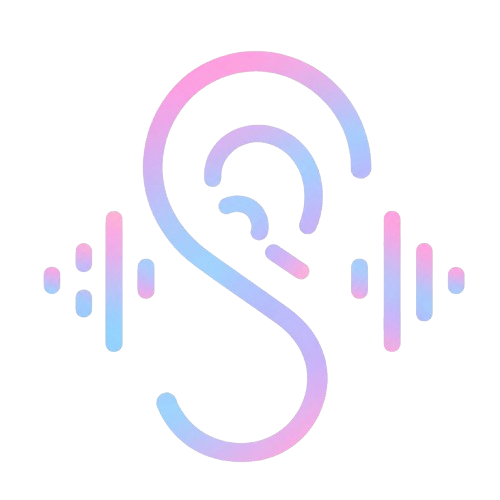
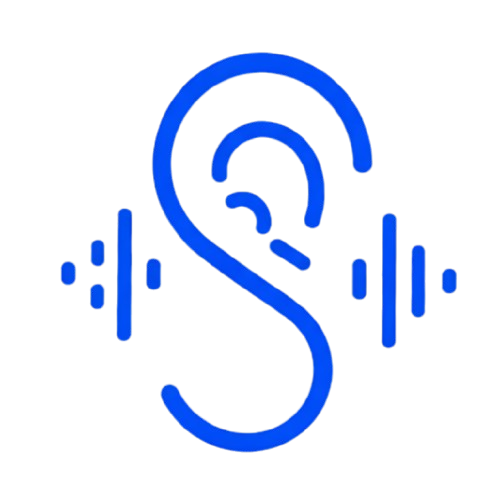
Fix typescript error & Add Mock Payment Gateway Simulator

Changed region(s): [[0.27, 0.09, 0.75, 0.93], [0.69, 0.42, 0.93, 0.72], [0.09, 0.42, 0.33, 0.72]]

diff --git a/apps/web/components/premium/PremiumUpgradeFlow.tsx b/apps/web/components/premium/PremiumUpgradeFlow.tsx
@@ -1,14 +1,38 @@
 "use client"
 
-import { Check, Zap, ShieldCheck, ArrowRight, Sparkles } from "lucide-react"
+import { useState } from "react"
+import { Check, Zap, ShieldCheck, ArrowRight, Sparkles, X, CreditCard, Loader2 } from "lucide-react"
 import { useUiStore } from "@/store/uiStore"
+import { upgradeUserToPremium } from "@/app/actions/user"
+import { useRouter } from "next/navigation"
 
 export default function PremiumUpgradeFlow() {
   const { triggerFlash } = useUiStore()
+  const router = useRouter()
+  
+  const [showModal, setShowModal] = useState(false)
+  const [selectedPlan, setSelectedPlan] = useState("")
+  const [price, setPrice] = useState("")
+  const [isProcessing, setIsProcessing] = useState(false)
 
-  const handleSubscribe = (plan: string) => {
-    triggerFlash("success", `Memproses pembayaran untuk paket ${plan}...`)
-    // Di aplikasi nyata, ini akan redirect ke Stripe Checkout atau Midtrans
+  const handleSubscribe = (plan: string, planPrice: string) => {
+    setSelectedPlan(plan)
+    setPrice(planPrice)
+    setShowModal(true)
+  }
+
+  const handlePayment = async () => {
+    setIsProcessing(true)
+    try {
+      await upgradeUserToPremium()
+      triggerFlash("success", `Pembayaran berhasil! Akun Anda kini Premium.`)
+      setShowModal(false)
+      // Reload the page to reflect the new session role
+      window.location.href = "/dashboard"
+    } catch (error) {
+      triggerFlash("error", "Terjadi kesalahan saat memproses pembayaran.")
+      setIsProcessing(false)
+    }
   }
 
   return (
@@ -23,7 +47,7 @@ export default function PremiumUpgradeFlow() {
         </p>
       </div>
 
-      {/* Pricing Cards - 3 Column Grid from Landing Page */}
+      {/* Pricing Cards */}
       <div className="max-w-[1200px] mx-auto w-full grid grid-cols-1 lg:grid-cols-3 gap-8 items-stretch">
         
         {/* Free Plan */}
@@ -76,7 +100,7 @@ export default function PremiumUpgradeFlow() {
           </div>
           
           <button 
-            onClick={() => handleSubscribe('Bulanan')}
+            onClick={() => handleSubscribe('Premium Bulanan', 'Rp 49.000')}
             className="block text-center w-full py-4 rounded-[1.25rem] text-[15px] font-bold bg-[#2563EB] hover:bg-blue-700 text-white transition-all shadow-[0_0_20px_rgba(37,99,235,0.3)] hover:-translate-y-0.5 mt-auto relative z-10"
           >
             Berlangganan Bulanan
@@ -108,14 +132,90 @@ export default function PremiumUpgradeFlow() {
           </div>
           
           <button 
-            onClick={() => handleSubscribe('Tahunan')}
+            onClick={() => handleSubscribe('Premium Tahunan', 'Rp 399.000')}
             className="block text-center w-full py-4 rounded-[1.25rem] text-[15px] font-bold bg-[#BC4800] hover:bg-[#9c3c00] text-white transition-all shadow-[0_4px_14px_rgba(188,72,0,0.3)] hover:-translate-y-0.5 mt-auto relative z-10"
           >
             Berlangganan Tahunan
           </button>
         </div>
-
       </div>
+
+      {/* Mock Payment Gateway Modal */}
+      {showModal && (
+        <div className="fixed inset-0 z-50 flex items-center justify-center bg-black/60 backdrop-blur-sm p-4 animate-in fade-in duration-200">
+          <div className="bg-white dark:bg-slate-900 w-full max-w-md rounded-3xl shadow-2xl overflow-hidden border border-slate-200 dark:border-slate-800 animate-in zoom-in-95 duration-200">
+            {/* Modal Header */}
+            <div className="bg-slate-50 dark:bg-slate-800/50 p-6 border-b border-slate-100 dark:border-slate-800 flex justify-between items-center">
+              <div className="flex items-center gap-3">
+                <div className="w-10 h-10 bg-indigo-100 dark:bg-indigo-900/50 rounded-full flex items-center justify-center">
+                  <CreditCard className="w-5 h-5 text-indigo-600 dark:text-indigo-400" />
+                </div>
+                <div>
+                  <h3 className="font-bold text-slate-900 dark:text-white">Pembayaran Aman</h3>
+                  <p className="text-xs text-slate-500 dark:text-slate-400">Simulator Payment Gateway</p>
+                </div>
+              </div>
+              <button 
+                onClick={() => setShowModal(false)}
+                className="w-8 h-8 flex items-center justify-center rounded-full hover:bg-slate-200 dark:hover:bg-slate-700 text-slate-400 transition-colors"
+                disabled={isProcessing}
+              >
+                <X className="w-5 h-5" />
+              </button>
+            </div>
+
+            {/* Modal Body */}
+            <div className="p-6">
+              <div className="bg-indigo-50/50 dark:bg-indigo-900/10 border border-indigo-100 dark:border-indigo-900/30 rounded-2xl p-5 mb-6">
+                <div className="flex justify-between items-center mb-2">
+                  <span className="text-sm font-semibold text-slate-600 dark:text-slate-400">Paket</span>
+                  <span className="font-bold text-slate-900 dark:text-white">{selectedPlan}</span>
+                </div>
+                <div className="flex justify-between items-center">
+                  <span className="text-sm font-semibold text-slate-600 dark:text-slate-400">Total Pembayaran</span>
+                  <span className="text-xl font-extrabold text-indigo-600 dark:text-indigo-400">{price}</span>
+                </div>
+              </div>
+
+              <div className="space-y-3 mb-8">
+                <p className="text-sm text-slate-500 dark:text-slate-400 text-center">
+                  Pilih metode pembayaran (Demo Mode):
+                </p>
+                <div className="grid grid-cols-2 gap-3">
+                  <button className="border-2 border-indigo-600 bg-indigo-50 dark:bg-indigo-900/20 rounded-xl p-3 text-sm font-bold text-indigo-700 dark:text-indigo-400 flex flex-col items-center gap-2">
+                    <img src="https://upload.wikimedia.org/wikipedia/commons/thumb/8/86/Gopay_logo.svg/1200px-Gopay_logo.svg.png" alt="Gopay" className="h-4 object-contain brightness-0 dark:invert opacity-70" />
+                    GoPay
+                  </button>
+                  <button className="border-2 border-slate-200 dark:border-slate-700 hover:border-slate-300 rounded-xl p-3 text-sm font-bold text-slate-600 dark:text-slate-400 flex flex-col items-center gap-2">
+                    <img src="https://upload.wikimedia.org/wikipedia/commons/thumb/e/e1/OVO_logo.svg/1200px-OVO_logo.svg.png" alt="OVO" className="h-4 object-contain brightness-0 dark:invert opacity-70" />
+                    OVO
+                  </button>
+                </div>
+              </div>
+
+              <button 
+                onClick={handlePayment}
+                disabled={isProcessing}
+                className="w-full bg-slate-900 hover:bg-slate-800 dark:bg-white dark:hover:bg-slate-100 text-white dark:text-slate-900 font-bold py-4 rounded-xl shadow-lg transition-all flex items-center justify-center gap-2 disabled:opacity-70"
+              >
+                {isProcessing ? (
+                  <>
+                    <Loader2 className="w-5 h-5 animate-spin" />
+                    Memproses...
+                  </>
+                ) : (
+                  <>Bayar Sekarang</>
+                )}
+              </button>
+              
+              <p className="text-xs text-center text-slate-400 mt-4">
+                Ini adalah lingkungan simulasi/demo. Tidak ada uang sungguhan yang akan ditarik.
+              </p>
+            </div>
+          </div>
+        </div>
+      )}
     </div>
   )
 }
+

diff --git a/apps/web/components/dashboard/RecentHistory.tsx b/apps/web/components/dashboard/RecentHistory.tsx
@@ -4,6 +4,7 @@ import { useState, useEffect } from "react"
 import Link from "next/link"
 import { History as HistoryIcon } from "lucide-react"
 import { useTranslation } from "@/lib/i18n"
+import { getHistory } from "@/app/actions/history"
 
 export function RecentHistory() {
   const { t } = useTranslation()
@@ -11,50 +12,19 @@ export function RecentHistory() {
   const [isLoading, setIsLoading] = useState(true)
 
   useEffect(() => {
-    try {
-      const translations = JSON.parse(localStorage.getItem("swara_translations") || "[]")
-      const dictations = JSON.parse(localStorage.getItem("swara_dictations") || "[]")
-      const conversations = JSON.parse(localStorage.getItem("swara_conversations") || "[]")
-
-      const formattedTranslations = translations.map((t: any) => ({
-        id: t.id,
-        type: "translation",
-        originalText: t.original,
-        sourceLanguageCode: `${t.sourceLang} → ${t.targetLang}`,
-        createdAt: t.date,
-      }))
-
-      const formattedDictations = dictations.map((d: any) => ({
-        id: d.id,
-        type: "stt",
-        originalText: d.text,
-        sourceLanguageCode: "Dikte",
-        createdAt: d.date,
-      }))
-
-      const formattedConversations = conversations.map((c: any) => {
-        const textPreview = c.log && c.log.length > 0 
-          ? c.log.map((l: any) => `${l.speaker}: ${l.text}`).join(' | ') 
-          : "Sesi Percakapan Kosong"
-        return {
-          id: c.id,
-          type: "stt",
-          originalText: textPreview,
-          sourceLanguageCode: "2 Arah",
-          createdAt: c.date,
-        }
-      })
-
-      const combined = [...formattedTranslations, ...formattedDictations, ...formattedConversations]
-        .sort((a, b) => new Date(b.createdAt).getTime() - new Date(a.createdAt).getTime())
-        .slice(0, 5)
-      
-      setData(combined)
-    } catch (e) {
-      console.error("Error loading history", e)
-    } finally {
-      setIsLoading(false)
+    async function loadHistory() {
+      try {
+        const historyData = await getHistory()
+        // Ambil 5 riwayat terbaru saja untuk beranda
+        setData(historyData.slice(0, 5))
+      } catch (e) {
+        console.error("Error loading history", e)
+      } finally {
+        setIsLoading(false)
+      }
     }
+    
+    loadHistory()
   }, [])
 
   return (
@@ -101,19 +71,19 @@ export function RecentHistory() {
               key={item.id}
               className="flex items-center gap-4 p-3 rounded-xl hover:bg-[#F8FAFC] dark:hover:bg-slate-700/50 transition-colors border border-transparent hover:border-[#E2E8F0] dark:hover:border-slate-600"
             >
-              <div className={`px-2 py-1 rounded text-xs font-bold ${
+              <div className={`px-2 py-1 rounded text-xs font-bold uppercase ${
                 item.type === 'stt' ? 'bg-[#DBEAFE] dark:bg-blue-900/30 text-[#1D4ED8] dark:text-blue-400' : 
                 item.type === 'tts' ? 'bg-[#E2E8F0] dark:bg-slate-700 text-[#0F172A] dark:text-slate-300' : 
                 'bg-[#FFEDD5] dark:bg-orange-900/30 text-[#9A3A00] dark:text-orange-400'
               }`}>
-                {item.type.toUpperCase()}
+                {item.type}
               </div>
               <div className="flex-1 min-w-0">
                 <p className="text-[#0F172A] dark:text-white font-medium truncate">
-                  {item.originalText}
+                  {item.label || item.originalText}
                 </p>
                 <div className="flex items-center gap-2 text-xs text-[#94A3B8] dark:text-slate-400 mt-1">
-                  <span>{item.sourceLanguageCode}</span>
+                  <span>{item.sourceLanguageCode || "Sistem"}</span>
                   <span>•</span>
                   <span>{new Date(item.createdAt).toLocaleDateString("id-ID")}</span>
                 </div>
@@ -125,3 +95,4 @@ export function RecentHistory() {
     </div>
   )
 }
+

diff --git a/apps/web/app/actions/user.ts b/apps/web/app/actions/user.ts
@@ -1,0 +1,35 @@
+"use server"
+
+import { prisma } from "@/lib/prisma"
+import { auth } from "@/lib/auth"
+
+export async function upgradeUserToPremium() {
+  const session = await auth()
+  if (!session?.user?.id) throw new Error("Unauthorized")
+
+  // Update user role to premium
+  await prisma.user.update({
+    where: { id: session.user.id },
+    data: { role: "premium" }
+  })
+
+  // Create a fake subscription record for demo purposes
+  await prisma.subscription.upsert({
+    where: { userId: session.user.id },
+    update: {
+      planType: "Premium Bulanan",
+      validUntil: new Date(Date.now() + 30 * 24 * 60 * 60 * 1000), // +30 days
+      status: "active",
+      midtransOrderId: "demo-" + Math.random().toString(36).substring(7)
+    },
+    create: {
+      userId: session.user.id,
+      planType: "Premium Bulanan",
+      validUntil: new Date(Date.now() + 30 * 24 * 60 * 60 * 1000),
+      status: "active",
+      midtransOrderId: "demo-" + Math.random().toString(36).substring(7)
+    }
+  })
+
+  return { success: true }
+}

diff --git a/apps/web/components/dashboard/UsageQuota.tsx b/apps/web/components/dashboard/UsageQuota.tsx
@@ -1,9 +1,10 @@
 "use client"
 
-import { useState } from "react"
+import { useState, useEffect } from "react"
 import Link from "next/link"
 import { Activity, Sparkles, Zap, ShieldCheck } from "lucide-react"
 import { useTranslation } from "@/lib/i18n"
+import { getUsageStats } from "@/app/actions/history"
 
 interface UsageQuotaProps {
   role?: string
@@ -13,12 +14,27 @@ export function UsageQuota({ role = "regular" }: UsageQuotaProps) {
   const { t } = useTranslation()
   const isPremium = role === "premium"
 
-  // In a real app, these values would come from the server
-  const [sttUsed] = useState(0)
-  const sttLimit = 60
+  const [sttUsed, setSttUsed] = useState(0)
+  const sttLimit = 60 // 60 menit per bulan
   
-  const [translationUsed] = useState(0)
-  const translationLimit = 10000
+  const [translationUsed, setTranslationUsed] = useState(0)
+  const translationLimit = 10000 // 10.000 karakter per bulan
+
+  useEffect(() => {
+    async function loadStats() {
+      try {
+        const stats = await getUsageStats()
+        setSttUsed(stats.sttUsed)
+        setTranslationUsed(stats.translationUsed)
+      } catch (e) {
+        console.error("Gagal memuat statistik", e)
+      }
+    }
+    
+    if (!isPremium) {
+      loadStats()
+    }
+  }, [isPremium])
 
   if (isPremium) {
     return (

diff --git a/apps/web/app/actions/history.ts b/apps/web/app/actions/history.ts
@@ -72,3 +72,29 @@ export async function deleteAllHistory() {
     where: { userId: session.user.id }
   })
 }
+
+export async function getUsageStats() {
+  const session = await auth()
+  if (!session?.user?.id) return { sttUsed: 0, translationUsed: 0 }
+
+  const history = await prisma.history.findMany({
+    where: { userId: session.user.id }
+  })
+
+  let sttSeconds = 0
+  let translationChars = 0
+
+  for (const item of history) {
+    if (item.type === 'stt' || item.type === 'conversation') {
+      sttSeconds += (item.durationSeconds || 0)
+    } else if (item.type === 'translation') {
+      translationChars += (item.originalText?.length || 0)
+    }
+  }
+
+  return {
+    sttUsed: Math.ceil(sttSeconds / 60), // konversi ke menit
+    translationUsed: translationChars
+  }
+}
+